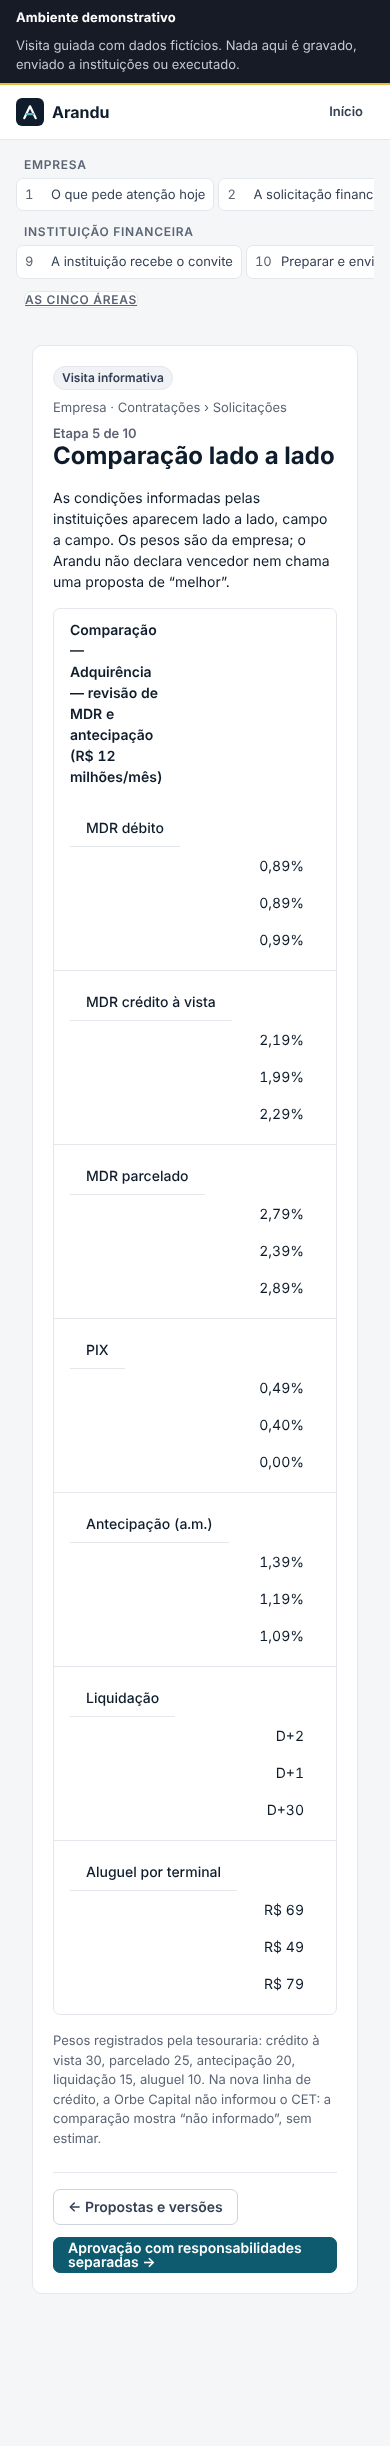
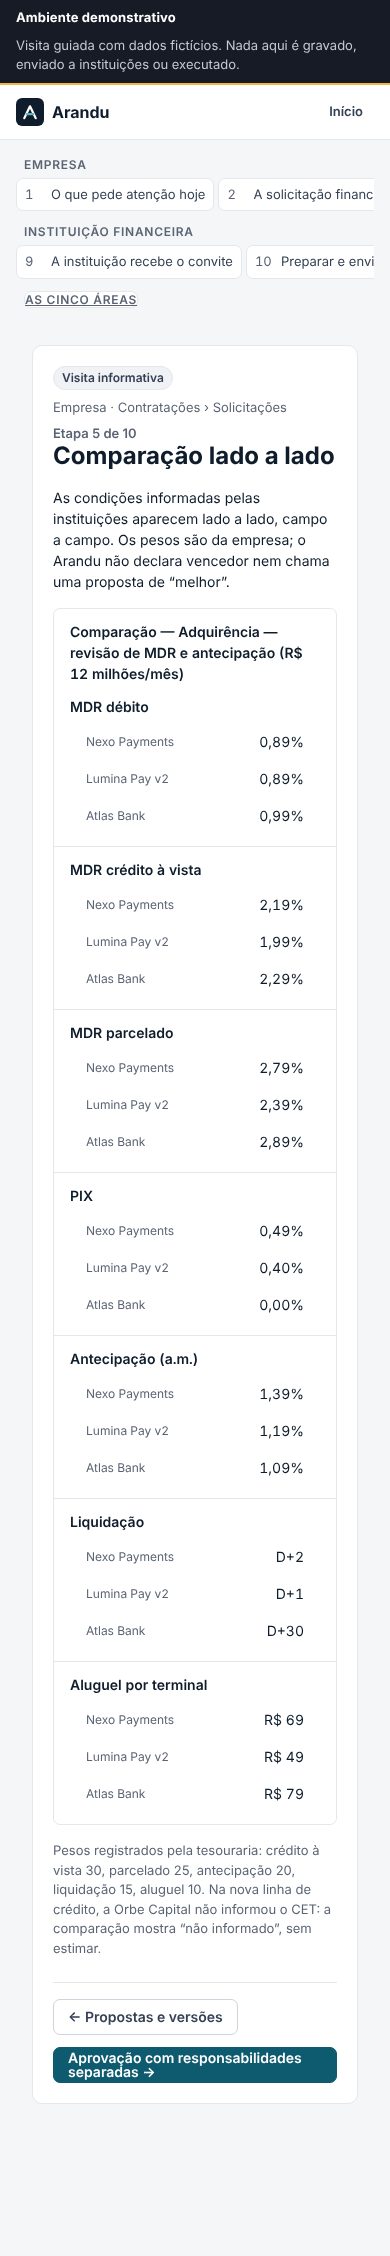
fix(demo): transição sem erro na volta à entrada e rótulos da comparação no celular
- transitions.js (entrada e visita) trata as promessas da transição entre
  documentos: quando o navegador a aborta, não vira pageerror (#241, reteste).
- Tabelas da visita levam data-label: no celular, cada valor mostra a
  instituição, como nas tabelas do produto.
- E2E cobre ida e volta sem pageerror e o rótulo no layout de cartões.

Claude-Session: https://claude.ai/code/session_01QkTp42LbB5fiHEQa5mf6BV

diff --git a/demo/visita.html b/demo/visita.html
@@ -12,6 +12,7 @@
 <link rel="icon" href="/favicon.svg" type="image/svg+xml">
 <link rel="stylesheet" href="/finance/style.css">
 <link rel="stylesheet" href="/demo/visita/tour.css">
+<script type="module" blocking="render" src="/demo/visita/transitions.js"></script>
 <script type="module" src="/demo/visita/tour.js"></script>
 </head>
 <body class="tour" data-mode="tour">
@@ -60,7 +61,7 @@
 <p class="tour-where"><span class="tour-badge">Visita informativa</span><span>Empresa · Contratações › Solicitações</span></p>
 <h2 id="convites-title"><span class="tour-step-n">Etapa 3 de 10</span> Convites às instituições</h2>
 <div class="tour-body"><div class="tour-text"><p>Só instituições convidadas acessam a solicitação, e cada uma vê apenas o próprio convite, as próprias propostas e o que a empresa decidiu compartilhar com ela. Nenhuma instituição vê a proposta da outra.</p>
-<div class="tour-table table-scroll" role="region" aria-label="Convites — Capital de giro sazonal — safra de inverno (R$ 5 milhões / 12 meses)" tabindex="0"><table class="data-table compact"><caption>Convites — Capital de giro sazonal — safra de inverno (R$ 5 milhões / 12 meses)</caption><thead><tr><th scope="col">Instituição</th><th scope="col" class="num">Situação</th></tr></thead><tbody><tr><th scope="row">Orbe Capital</th><td class="num">Proposta enviada</td></tr><tr><th scope="row">Meridian Financial</th><td class="num">Convite aceito, proposta ainda não enviada</td></tr></tbody></table></div>
+<div class="tour-table table-scroll" role="region" aria-label="Convites — Capital de giro sazonal — safra de inverno (R$ 5 milhões / 12 meses)" tabindex="0"><table class="data-table compact"><caption>Convites — Capital de giro sazonal — safra de inverno (R$ 5 milhões / 12 meses)</caption><thead><tr><th scope="col">Instituição</th><th scope="col" class="num">Situação</th></tr></thead><tbody><tr><th scope="row">Orbe Capital</th><td class="num" data-label="Situação">Proposta enviada</td></tr><tr><th scope="row">Meridian Financial</th><td class="num" data-label="Situação">Convite aceito, proposta ainda não enviada</td></tr></tbody></table></div>
 <p class="tour-note">Prazo da coleta: 9 dias. Na apresentação ao vivo, a Meridian Financial envia a proposta pelo portal com backend real; nesta visita pública nada é enviado.</p></div></div>
 <nav class="tour-pager" aria-label="Etapas vizinhas"><a class="btn" href="#solicitacao" rel="prev">← A solicitação financeira</a><a class="btn btn-primary" href="#propostas" rel="next">Propostas e versões →</a></nav>
 </section>
@@ -68,7 +69,7 @@
 <p class="tour-where"><span class="tour-badge">Visita informativa</span><span>Empresa · Contratações › Propostas</span></p>
 <h2 id="propostas-title"><span class="tour-step-n">Etapa 4 de 10</span> Propostas e versões</h2>
 <div class="tour-body"><div class="tour-text"><p>Cada resposta entra no mesmo formato, com versões preservadas. O pedido de ajuste, a resposta da instituição e a nova versão ficam no processo — não em e-mails soltos e planilhas paralelas.</p>
-<div class="tour-table table-scroll" role="region" aria-label="Atlas Bank — versões da proposta" tabindex="0"><table class="data-table compact"><caption>Atlas Bank — versões da proposta</caption><thead><tr><th scope="col">Condição</th><th scope="col" class="num">Versão 1</th><th scope="col" class="num">Versão 2</th></tr></thead><tbody><tr><th scope="row">Taxa</th><td class="num">1,29% a.m.</td><td class="num">1,24% a.m.</td></tr><tr><th scope="row">Spread sobre CDI</th><td class="num">3,40% a.a.</td><td class="num">3,10% a.a.</td></tr><tr><th scope="row">CET informado</th><td class="num">20,80% a.a.</td><td class="num">20,10% a.a.</td></tr><tr><th scope="row">Tarifas</th><td class="num">R$ 96.000</td><td class="num">R$ 60.000</td></tr></tbody></table></div>
+<div class="tour-table table-scroll" role="region" aria-label="Atlas Bank — versões da proposta" tabindex="0"><table class="data-table compact"><caption>Atlas Bank — versões da proposta</caption><thead><tr><th scope="col">Condição</th><th scope="col" class="num">Versão 1</th><th scope="col" class="num">Versão 2</th></tr></thead><tbody><tr><th scope="row">Taxa</th><td class="num" data-label="Versão 1">1,29% a.m.</td><td class="num" data-label="Versão 2">1,24% a.m.</td></tr><tr><th scope="row">Spread sobre CDI</th><td class="num" data-label="Versão 1">3,40% a.a.</td><td class="num" data-label="Versão 2">3,10% a.a.</td></tr><tr><th scope="row">CET informado</th><td class="num" data-label="Versão 1">20,80% a.a.</td><td class="num" data-label="Versão 2">20,10% a.a.</td></tr><tr><th scope="row">Tarifas</th><td class="num" data-label="Versão 1">R$ 96.000</td><td class="num" data-label="Versão 2">R$ 60.000</td></tr></tbody></table></div>
 <blockquote class="tour-quote"><p>Eduardo, conseguem reduzir a TAC para 0,5% mantendo a carência de 6 meses?</p><footer>Juliana Ramos · Gerente de Tesouraria</footer></blockquote><blockquote class="tour-quote"><p>Aprovado internamente: TAC de 0,5% e spread de CDI + 3,10% a.a. Versão 2 enviada com a carência mantida.</p><footer>Eduardo Lima · Atlas Bank</footer></blockquote></div></div>
 <nav class="tour-pager" aria-label="Etapas vizinhas"><a class="btn" href="#convites" rel="prev">← Convites às instituições</a><a class="btn btn-primary" href="#comparacao" rel="next">Comparação lado a lado →</a></nav>
 </section>
@@ -76,7 +77,7 @@
 <p class="tour-where"><span class="tour-badge">Visita informativa</span><span>Empresa · Contratações › Solicitações</span></p>
 <h2 id="comparacao-title"><span class="tour-step-n">Etapa 5 de 10</span> Comparação lado a lado</h2>
 <div class="tour-body"><div class="tour-text"><p>As condições informadas pelas instituições aparecem lado a lado, campo a campo. Os pesos são da empresa; o Arandu não declara vencedor nem chama uma proposta de “melhor”.</p>
-<div class="tour-table table-scroll" role="region" aria-label="Comparação — Adquirência — revisão de MDR e antecipação (R$ 12 milhões/mês)" tabindex="0"><table class="data-table compact"><caption>Comparação — Adquirência — revisão de MDR e antecipação (R$ 12 milhões/mês)</caption><thead><tr><th scope="col">Condição</th><th scope="col" class="num">Nexo Payments</th><th scope="col" class="num">Lumina Pay v2</th><th scope="col" class="num">Atlas Bank</th></tr></thead><tbody><tr><th scope="row">MDR débito</th><td class="num">0,89%</td><td class="num">0,89%</td><td class="num">0,99%</td></tr><tr><th scope="row">MDR crédito à vista</th><td class="num">2,19%</td><td class="num">1,99%</td><td class="num">2,29%</td></tr><tr><th scope="row">MDR parcelado</th><td class="num">2,79%</td><td class="num">2,39%</td><td class="num">2,89%</td></tr><tr><th scope="row">PIX</th><td class="num">0,49%</td><td class="num">0,40%</td><td class="num">0,00%</td></tr><tr><th scope="row">Antecipação (a.m.)</th><td class="num">1,39%</td><td class="num">1,19%</td><td class="num">1,09%</td></tr><tr><th scope="row">Liquidação</th><td class="num">D+2</td><td class="num">D+1</td><td class="num">D+30</td></tr><tr><th scope="row">Aluguel por terminal</th><td class="num">R$ 69</td><td class="num">R$ 49</td><td class="num">R$ 79</td></tr></tbody></table></div>
+<div class="tour-table table-scroll" role="region" aria-label="Comparação — Adquirência — revisão de MDR e antecipação (R$ 12 milhões/mês)" tabindex="0"><table class="data-table compact"><caption>Comparação — Adquirência — revisão de MDR e antecipação (R$ 12 milhões/mês)</caption><thead><tr><th scope="col">Condição</th><th scope="col" class="num">Nexo Payments</th><th scope="col" class="num">Lumina Pay v2</th><th scope="col" class="num">Atlas Bank</th></tr></thead><tbody><tr><th scope="row">MDR débito</th><td class="num" data-label="Nexo Payments">0,89%</td><td class="num" data-label="Lumina Pay v2">0,89%</td><td class="num" data-label="Atlas Bank">0,99%</td></tr><tr><th scope="row">MDR crédito à vista</th><td class="num" data-label="Nexo Payments">2,19%</td><td class="num" data-label="Lumina Pay v2">1,99%</td><td class="num" data-label="Atlas Bank">2,29%</td></tr><tr><th scope="row">MDR parcelado</th><td class="num" data-label="Nexo Payments">2,79%</td><td class="num" data-label="Lumina Pay v2">2,39%</td><td class="num" data-label="Atlas Bank">2,89%</td></tr><tr><th scope="row">PIX</th><td class="num" data-label="Nexo Payments">0,49%</td><td class="num" data-label="Lumina Pay v2">0,40%</td><td class="num" data-label="Atlas Bank">0,00%</td></tr><tr><th scope="row">Antecipação (a.m.)</th><td class="num" data-label="Nexo Payments">1,39%</td><td class="num" data-label="Lumina Pay v2">1,19%</td><td class="num" data-label="Atlas Bank">1,09%</td></tr><tr><th scope="row">Liquidação</th><td class="num" data-label="Nexo Payments">D+2</td><td class="num" data-label="Lumina Pay v2">D+1</td><td class="num" data-label="Atlas Bank">D+30</td></tr><tr><th scope="row">Aluguel por terminal</th><td class="num" data-label="Nexo Payments">R$ 69</td><td class="num" data-label="Lumina Pay v2">R$ 49</td><td class="num" data-label="Atlas Bank">R$ 79</td></tr></tbody></table></div>
 <p class="tour-note">Pesos registrados pela tesouraria: crédito à vista 30, parcelado 25, antecipação 20, liquidação 15, aluguel 10. Na nova linha de crédito, a Orbe Capital não informou o CET: a comparação mostra “não informado”, sem estimar.</p></div></div>
 <nav class="tour-pager" aria-label="Etapas vizinhas"><a class="btn" href="#propostas" rel="prev">← Propostas e versões</a><a class="btn btn-primary" href="#aprovacao" rel="next">Aprovação com responsabilidades separadas →</a></nav>
 </section>
@@ -84,7 +85,7 @@
 <p class="tour-where"><span class="tour-badge">Visita informativa</span><span>Empresa · Meu trabalho › Aprovações</span></p>
 <h2 id="aprovacao-title"><span class="tour-step-n">Etapa 6 de 10</span> Aprovação com responsabilidades separadas</h2>
 <div class="tour-body"><div class="tour-text"><p>Quem pede não aprova a própria solicitação. A política da empresa define as etapas; cada aprovador vê valores, condições, comentários e justificativa antes de decidir.</p>
-<div class="tour-table table-scroll" role="region" aria-label="Aprovação — Capital de giro — nova linha de R$ 12 milhões / 36 meses" tabindex="0"><table class="data-table compact"><caption>Aprovação — Capital de giro — nova linha de R$ 12 milhões / 36 meses</caption><thead><tr><th scope="col">Etapa</th><th scope="col" class="num">Situação</th></tr></thead><tbody><tr><th scope="row">1 · Carlos Tavares (Controller)</th><td class="num">Aprovada</td></tr><tr><th scope="row">2 · Helena Duarte (CFO)</th><td class="num">Pendente — é a vez dela</td></tr></tbody></table></div>
+<div class="tour-table table-scroll" role="region" aria-label="Aprovação — Capital de giro — nova linha de R$ 12 milhões / 36 meses" tabindex="0"><table class="data-table compact"><caption>Aprovação — Capital de giro — nova linha de R$ 12 milhões / 36 meses</caption><thead><tr><th scope="col">Etapa</th><th scope="col" class="num">Situação</th></tr></thead><tbody><tr><th scope="row">1 · Carlos Tavares (Controller)</th><td class="num" data-label="Situação">Aprovada</td></tr><tr><th scope="row">2 · Helena Duarte (CFO)</th><td class="num" data-label="Situação">Pendente — é a vez dela</td></tr></tbody></table></div>
 <p>Decisão registrada na concorrência de adquirência:</p>
 <blockquote class="tour-quote"><p>Lumina Pay (versão 2): menores MDRs de crédito à vista (1,99%) e parcelado (2,39%), liquidação em D+1 e antecipação a 1,19% a.m. A antecipação do Atlas é menor, mas a liquidação em D+30 não atende ao fluxo de caixa das lojas. Aprovado pelo Controller e pela CFO.</p><footer>Justificativa da decisão · Vitta Foods</footer></blockquote></div></div>
 <nav class="tour-pager" aria-label="Etapas vizinhas"><a class="btn" href="#comparacao" rel="prev">← Comparação lado a lado</a><a class="btn btn-primary" href="#contrato" rel="next">O contrato registrado →</a></nav>
@@ -100,7 +101,7 @@
 <p class="tour-where"><span class="tour-badge">Visita informativa</span><span>Empresa · Portfólio financeiro › Covenants</span></p>
 <h2 id="continuidade-title"><span class="tour-step-n">Etapa 8 de 10</span> Depois da assinatura</h2>
 <div class="tour-body"><div class="tour-text"><p>O valor do Arandu continua depois da assinatura: implantação, obrigações contratuais, tarifas cobradas e o histórico com cada instituição ficam no mesmo lugar, com fonte.</p>
-<div class="tour-table table-scroll" role="region" aria-label="Covenants e obrigações — cédula do Atlas Bank" tabindex="0"><table class="data-table compact"><caption>Covenants e obrigações — cédula do Atlas Bank</caption><thead><tr><th scope="col">Obrigação</th><th scope="col" class="num">Situação</th></tr></thead><tbody><tr><th scope="row">Dívida líquida / EBITDA</th><td class="num">2,1x medido · conforme (revisado)</td></tr><tr><th scope="row">Cobertura de juros (EBITDA / despesa financeira)</th><td class="num">1,8x medido · não conforme, com dispensa aprovada até +25 dias</td></tr><tr><th scope="row">Entrega das demonstrações financeiras auditadas</th><td class="num">Aguardando dados — ausência não conta como conformidade</td></tr></tbody></table></div>
+<div class="tour-table table-scroll" role="region" aria-label="Covenants e obrigações — cédula do Atlas Bank" tabindex="0"><table class="data-table compact"><caption>Covenants e obrigações — cédula do Atlas Bank</caption><thead><tr><th scope="col">Obrigação</th><th scope="col" class="num">Situação</th></tr></thead><tbody><tr><th scope="row">Dívida líquida / EBITDA</th><td class="num" data-label="Situação">2,1x medido · conforme (revisado)</td></tr><tr><th scope="row">Cobertura de juros (EBITDA / despesa financeira)</th><td class="num" data-label="Situação">1,8x medido · não conforme, com dispensa aprovada até +25 dias</td></tr><tr><th scope="row">Entrega das demonstrações financeiras auditadas</th><td class="num" data-label="Situação">Aguardando dados — ausência não conta como conformidade</td></tr></tbody></table></div>
 <dl class="tour-facts"><div><dt>Implantação</dt><dd>Migração da adquirência para a Lumina Pay: 2 marcos concluídos com evidência, 1 bloqueado — Atraso na remessa de terminais (lojas do Nordeste); go-live previsto em +20 dias</dd></div><div><dt>Tarifas contratadas</dt><dd>Aluguel de terminais: 140 terminais a R$ 49 no contrato, R$ 7.140 no extrato — diferença para análise humana, não acusação nem economia</dd></div><div><dt>Relacionamento</dt><dd>Qualificação do Atlas Bank aguardando revisão interna; performance do “Primeiro mês da Lumina Pay” com liquidação medida e resposta a chamados indisponível</dd></div></dl></div></div>
 <nav class="tour-pager" aria-label="Etapas vizinhas"><a class="btn" href="#contrato" rel="prev">← O contrato registrado</a><a class="btn btn-primary" href="#instituicao" rel="next">A instituição recebe o convite →</a></nav>
 </section>

diff --git a/tests/e2e/public-tour.spec.js b/tests/e2e/public-tour.spec.js
@@ -16,7 +16,11 @@ test('entrada leva à visita guiada com uma ação principal', async ({ page }) 
   await expect(page.getByRole('heading', { level: 1 })).toHaveText('Uma contratação financeira, do pedido à renovação');
   await expect(page.getByRole('region', { name: 'Ambiente demonstrativo' })).toContainText('dados fictícios');
   await page.waitForLoadState('networkidle');
-  // Os dois documentos optam pela mesma transição de navegação (regressão #241).
+  // Volta pelo cabeçalho: nenhum erro de transição em nenhum dos sentidos (#241).
+  await page.locator('#topo a').click();
+  await page.locator('.tour-header').getByRole('link', { name: 'Início', exact: true }).click();
+  await expect(page).toHaveURL(/\/demo\/index\.html$/);
+  await page.waitForLoadState('networkidle');
   expect(errors).toEqual([]);
 });
 
@@ -47,6 +51,8 @@ test('links profundos abrem a etapa; etapa inexistente explica e volta ao iníci
   const current = page.locator('.tour-step.is-current');
   await expect(current).toHaveAttribute('id', 'comparacao');
   await expect(current).toContainText('Lumina Pay v2');
+  // No celular a tabela vira cartões: cada valor leva o nome da instituição.
+  await expect(current.locator('td[data-label="Lumina Pay v2"]').first()).toBeAttached();
   await expect(current).not.toContainText(/recomendad|vencedora|melhor opção/i);
   await page.goto('/demo/visita.html#instituicao');
   await expect(page.locator('.tour-step.is-current')).toContainText('Instituição financeira');

diff --git a/demo/visita/transitions.js b/demo/visita/transitions.js
@@ -1,0 +1,13 @@
+// Entrada e visita optam pela transição entre documentos (@view-transition).
+// Quando o navegador desiste dela (aba oculta, navegação interrompida, estado
+// inválido), as promessas da transição rejeitam; sem tratamento, viram erro
+// de página sem efeito para o visitante. A transição é só apresentação: aqui
+// ela pode falhar em silêncio. `blocking="render"` garante o registro antes
+// do primeiro quadro, quando `pagereveal` dispara.
+function quiet(event) {
+  const transition = event.viewTransition;
+  if (!transition) return;
+  for (const promise of [transition.ready, transition.finished, transition.updateCallbackDone]) promise?.catch(() => {});
+}
+window.addEventListener('pageswap', quiet);
+window.addEventListener('pagereveal', quiet);

diff --git a/demo/visita/tour.css b/demo/visita/tour.css
@@ -94,3 +94,4 @@ body.tour{background:var(--bg);color:var(--text)}
 .entry-hero .btn-primary:hover{background:var(--petrol-hover);border-color:var(--petrol-hover)}
 .entry-flow a:hover{border-color:var(--petrol-line);background:var(--petrol-weak)}
 .entry-sides a,.entry-modes a:not(.dl-role){color:var(--petrol)}
+@media (max-width:759px){.tour-table caption{display:block;width:100%;padding:var(--s3) var(--s4) 0}.tour-table th[scope="row"]{display:block;padding:0 0 6px;border:0;font-weight:600}}

diff --git a/demo/index.html b/demo/index.html
@@ -11,6 +11,7 @@
 <link rel="stylesheet" href="/finance/style.css">
 <link rel="stylesheet" href="/finance/demo/experience.css">
 <link rel="stylesheet" href="/demo/visita/tour.css">
+<script type="module" blocking="render" src="/demo/visita/transitions.js"></script>
 <script type="module" src="/finance/demo/workspace/boot.js"></script>
 </head>
 <body class="demo-landing" data-mode="demo">
